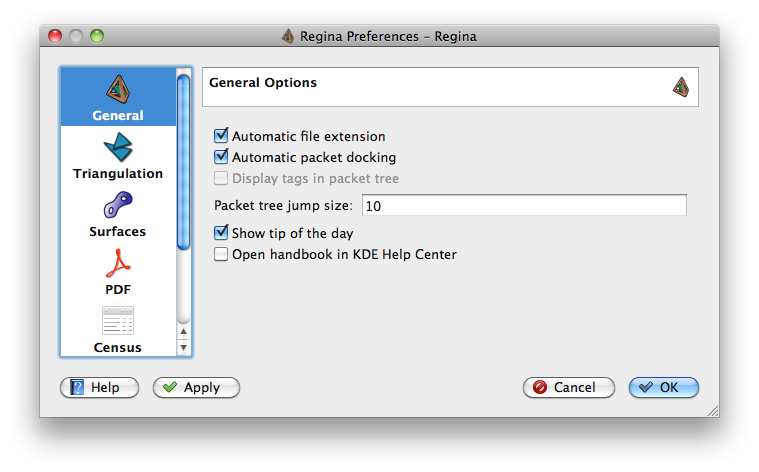
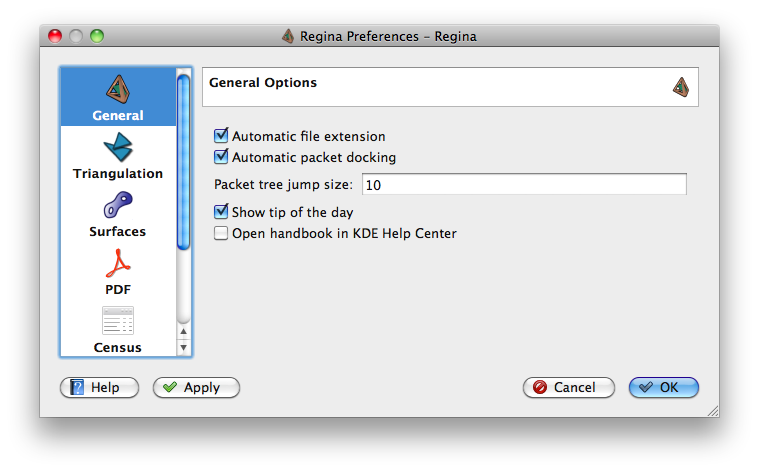
Remove the (currently unused) display-tags-in-tree option.

Changed region(s): [[0.2727, 0.3559, 0.9091, 0.5636], [0.8182, 0.8008, 0.9394, 0.8602], [0.0606, 0.0593, 0.0909, 0.089]]

diff --git a/kdeui/src/shell/reginapref.cpp b/kdeui/src/shell/reginapref.cpp
@@ -169,7 +169,7 @@ ReginaPreferences::ReginaPreferences(ReginaMain* parent) :
     // Read the current preferences from the main window.
     generalPrefs->cbAutoDock->setChecked(prefSet.autoDock);
     generalPrefs->cbAutoFileExtension->setChecked(prefSet.autoFileExtension);
-    generalPrefs->cbDisplayTagsInTree->setChecked(prefSet.displayTagsInTree);
+    // generalPrefs->cbDisplayTagsInTree->setChecked(prefSet.displayTagsInTree);
     generalPrefs->editTreeJumpSize->setText(
         QString::number(prefSet.treeJumpSize));
     generalPrefs->cbTipOfDay->setChecked(
@@ -287,7 +287,7 @@ void ReginaPreferences::slotApply() {
 
     prefSet.autoDock = generalPrefs->cbAutoDock->isChecked();
     prefSet.autoFileExtension = generalPrefs->cbAutoFileExtension->isChecked();
-    prefSet.displayTagsInTree = generalPrefs->cbDisplayTagsInTree->isChecked();
+    // prefSet.displayTagsInTree = generalPrefs->cbDisplayTagsInTree->isChecked();
     KTipDialog::setShowOnStart(generalPrefs->cbTipOfDay->isChecked());
     prefSet.handbookInKHelpCenter = generalPrefs->cbHandbookInKHelpCenter->
         isChecked();
@@ -626,11 +626,13 @@ ReginaPrefGeneral::ReginaPrefGeneral(QWidget* parent) : QWidget(parent) {
         "the main window instead of opening them in new windows."));
     layout->addWidget(cbAutoDock);
 
+    /*
     cbDisplayTagsInTree = new QCheckBox(i18n("Display tags in packet tree"));
     cbDisplayTagsInTree->setEnabled(false);
     cbDisplayTagsInTree->setWhatsThis(i18n("Show full details of any "
         "packet tags directly within the packet tree."));
     layout->addWidget(cbDisplayTagsInTree);
+    */
 
     // Set up the tree jump size.
     QBoxLayout* box = new QHBoxLayout();

diff --git a/kdeui/src/shell/reginapref.h b/kdeui/src/shell/reginapref.h
@@ -100,7 +100,7 @@ class ReginaPrefGeneral : public QWidget {
     private:
         QCheckBox* cbAutoDock;
         QCheckBox* cbAutoFileExtension;
-        QCheckBox* cbDisplayTagsInTree;
+        // QCheckBox* cbDisplayTagsInTree;
         QLineEdit* editTreeJumpSize;
         QCheckBox* cbTipOfDay;
         QCheckBox* cbHandbookInKHelpCenter;
